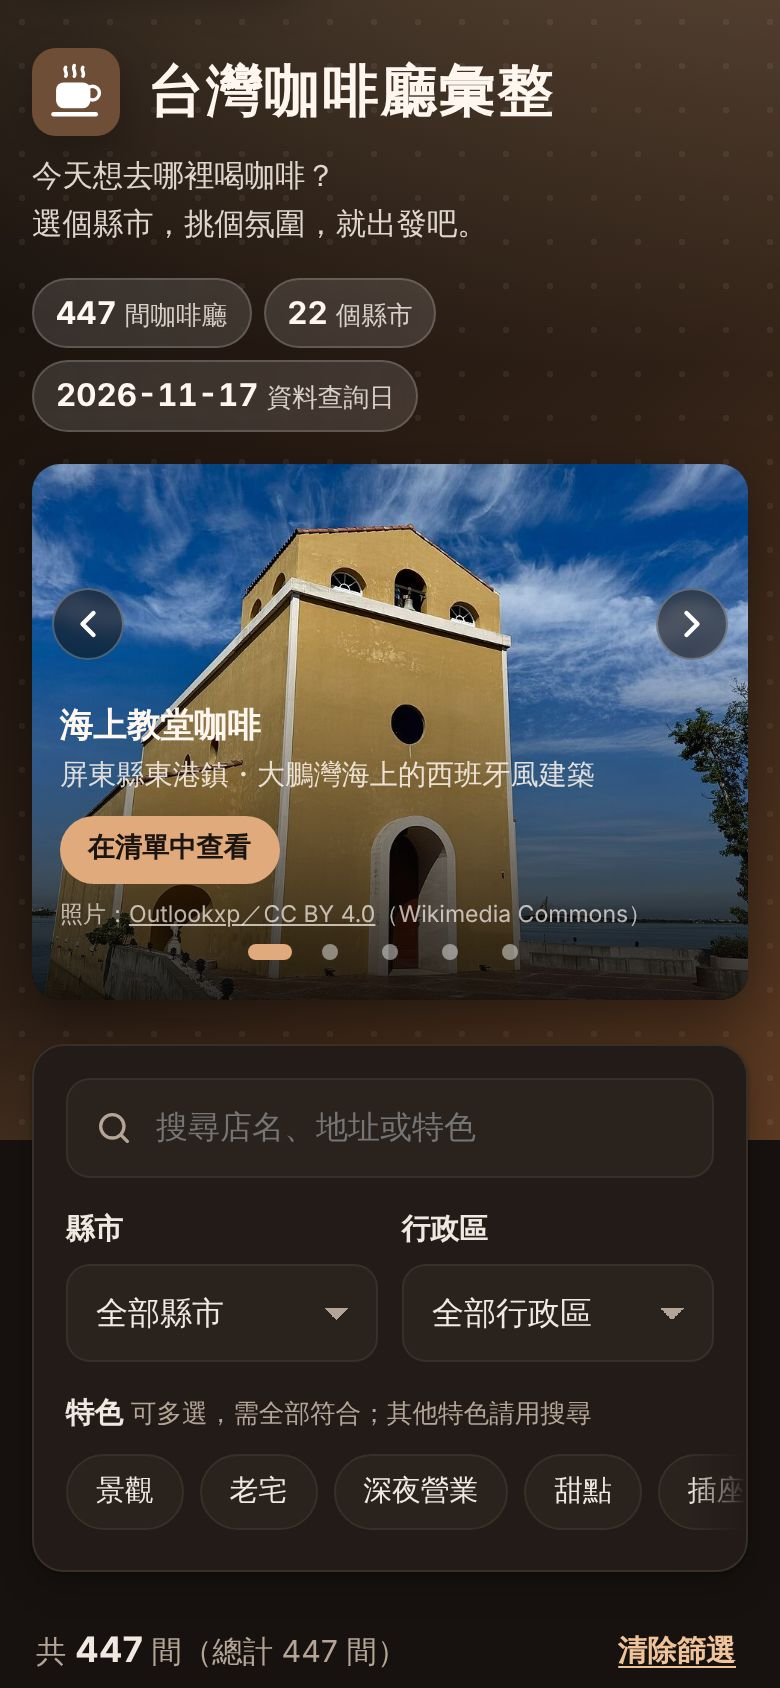
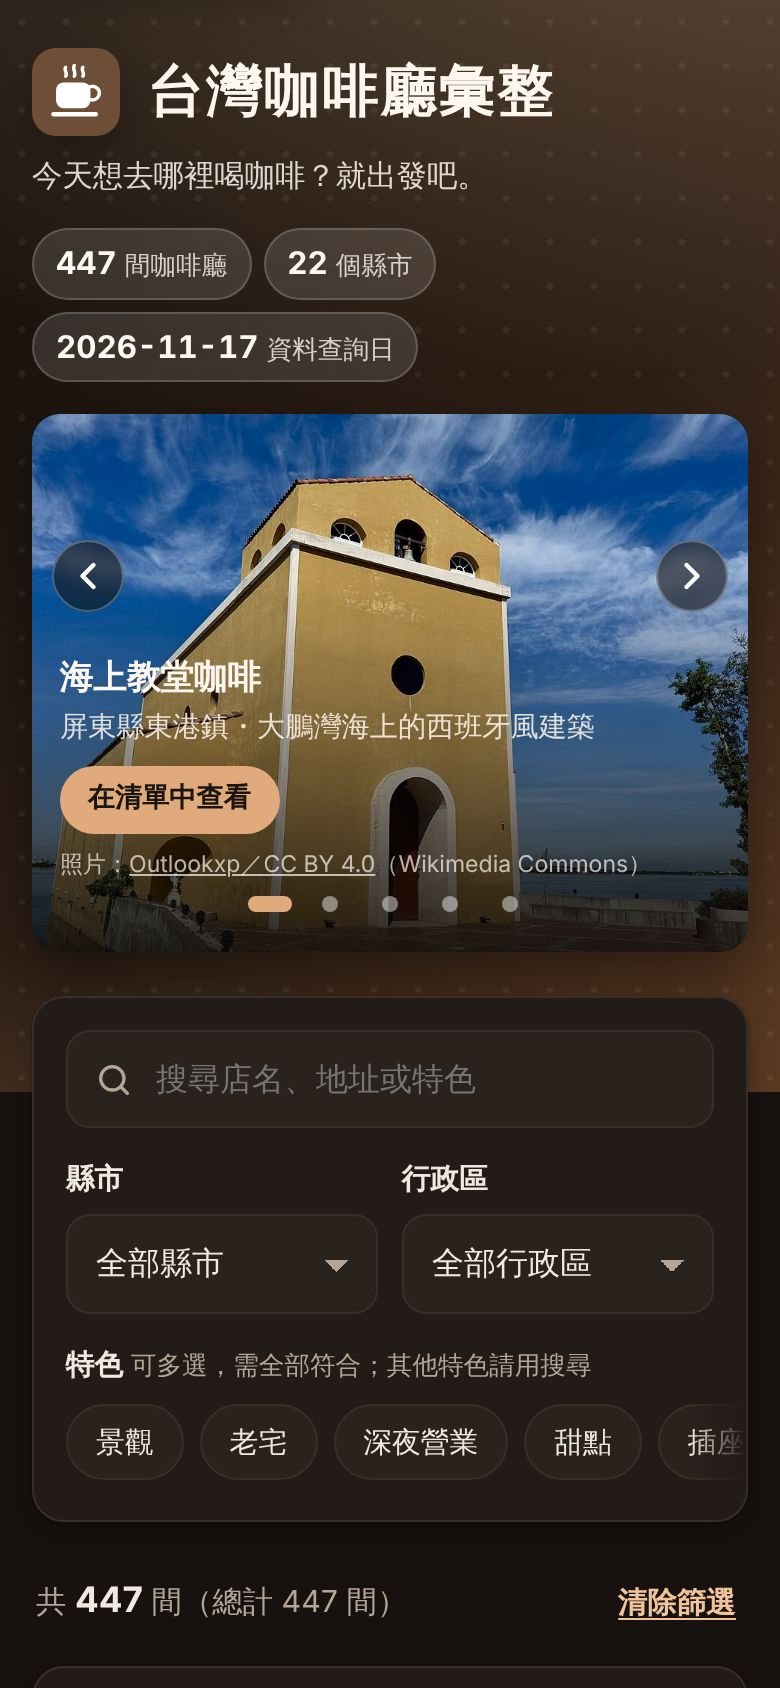
標語移除「選個縣市，挑個氛圍」
Claude-Session: https://claude.ai/code/session_01LUVCkZAwZdgNwQd1aVRFf3

diff --git a/index.html b/index.html
@@ -28,7 +28,7 @@
         <img class="hero-icon" src="icons/icon.svg" alt="" width="56" height="56">
         <h1>台灣咖啡廳彙整</h1>
       </div>
-      <p class="hero-sub"><span>今天想去哪裡喝咖啡？</span><span>選個縣市，挑個氛圍，就出發吧。</span></p>
+      <p class="hero-sub"><span>今天想去哪裡喝咖啡？</span><span>就出發吧。</span></p>
       <ul class="stats" aria-label="收錄概況">
         <li><strong id="stat-cafes">–</strong><span>間咖啡廳</span></li>
         <li><strong id="stat-cities">–</strong><span>個縣市</span></li>
